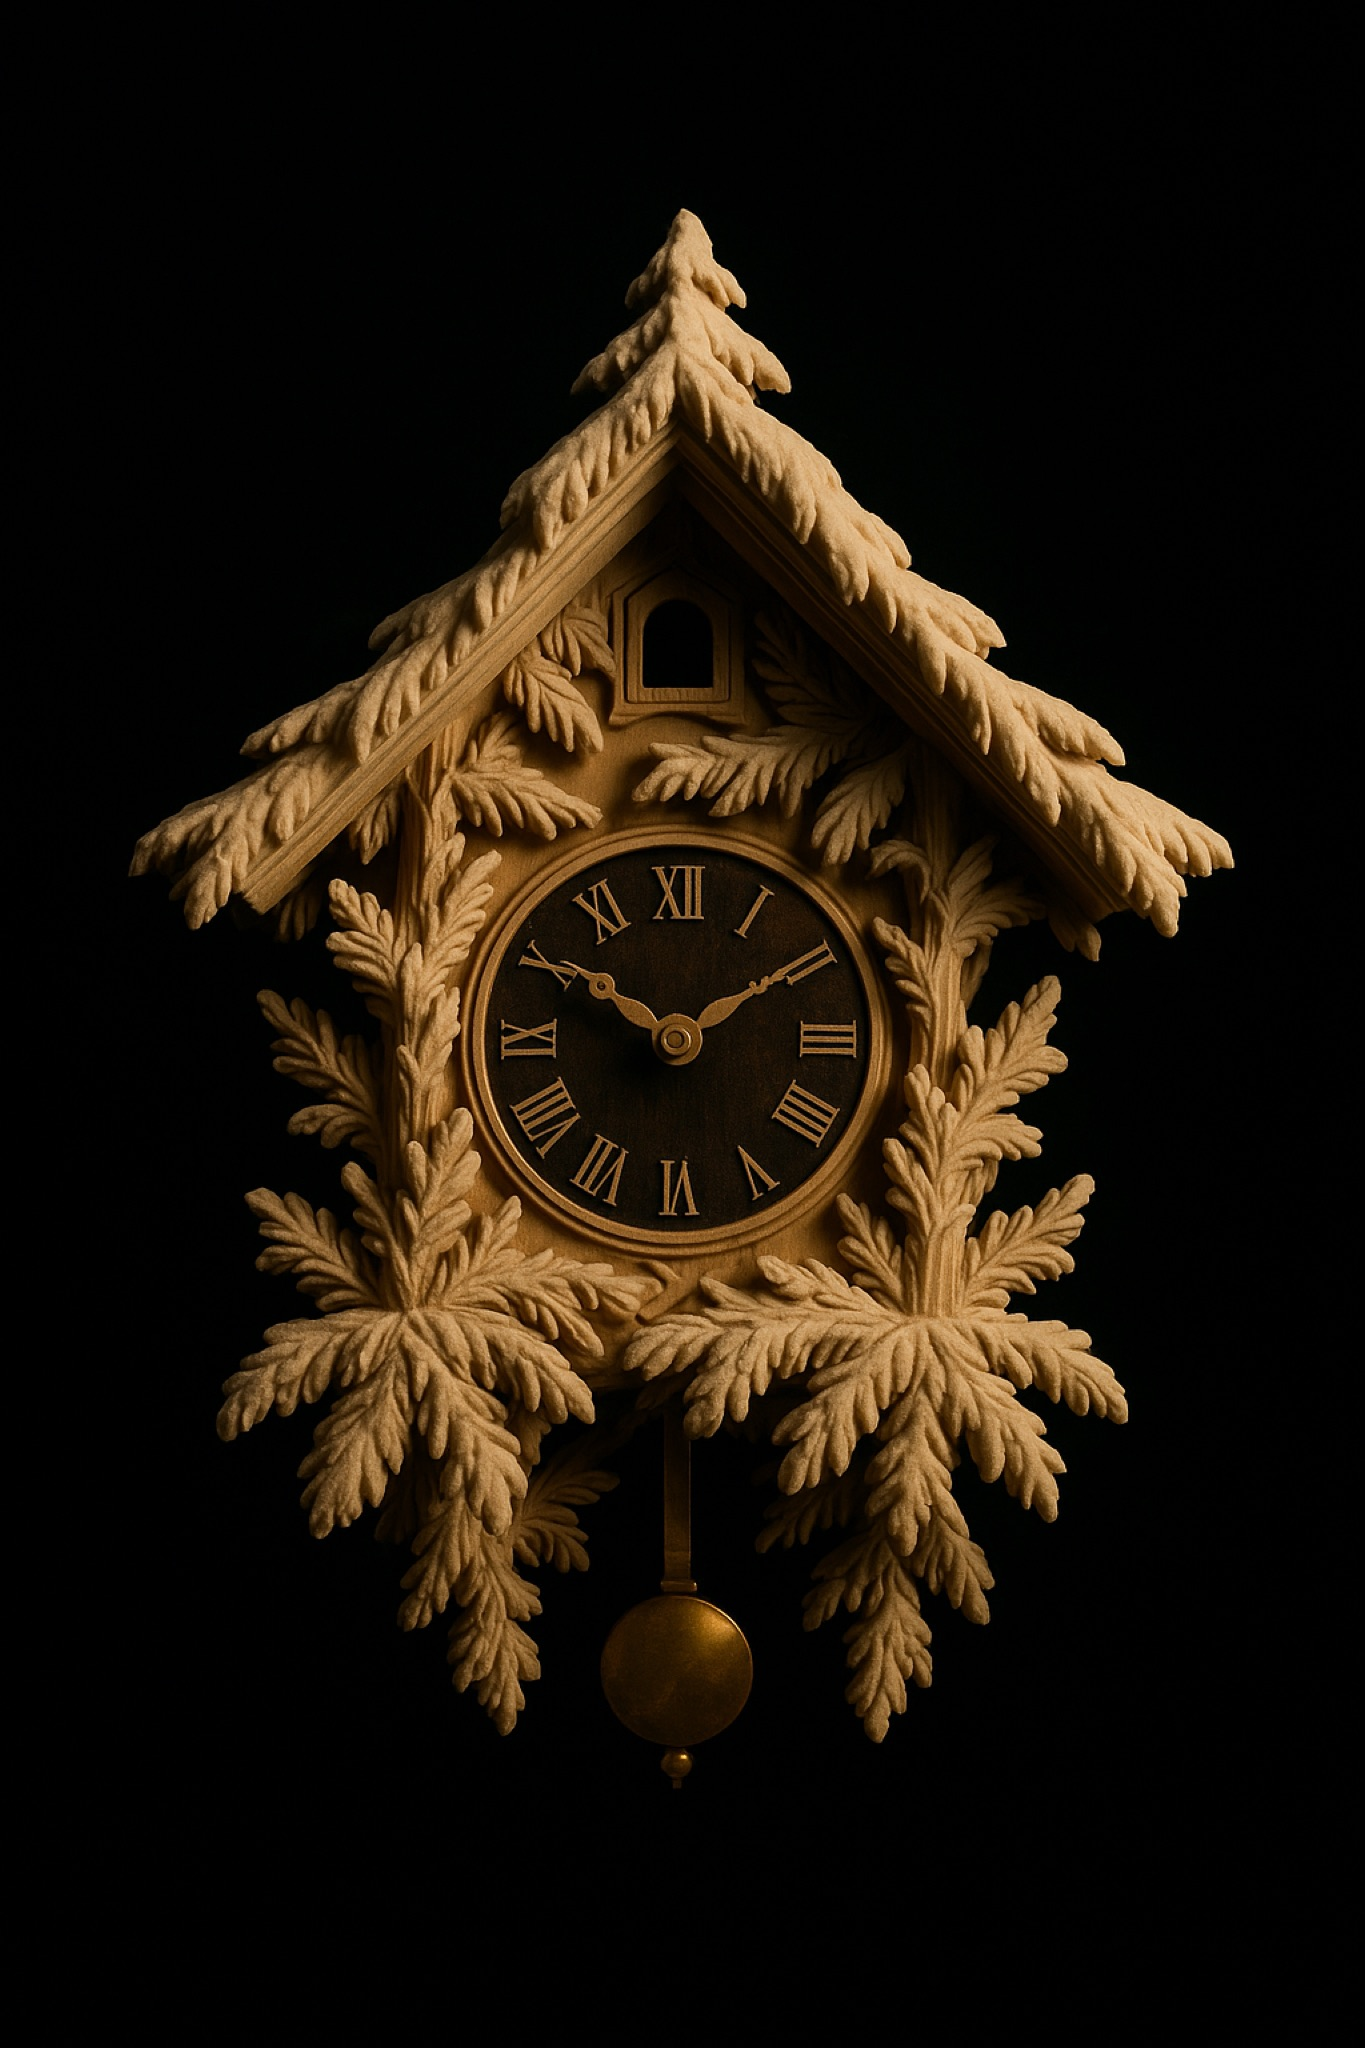
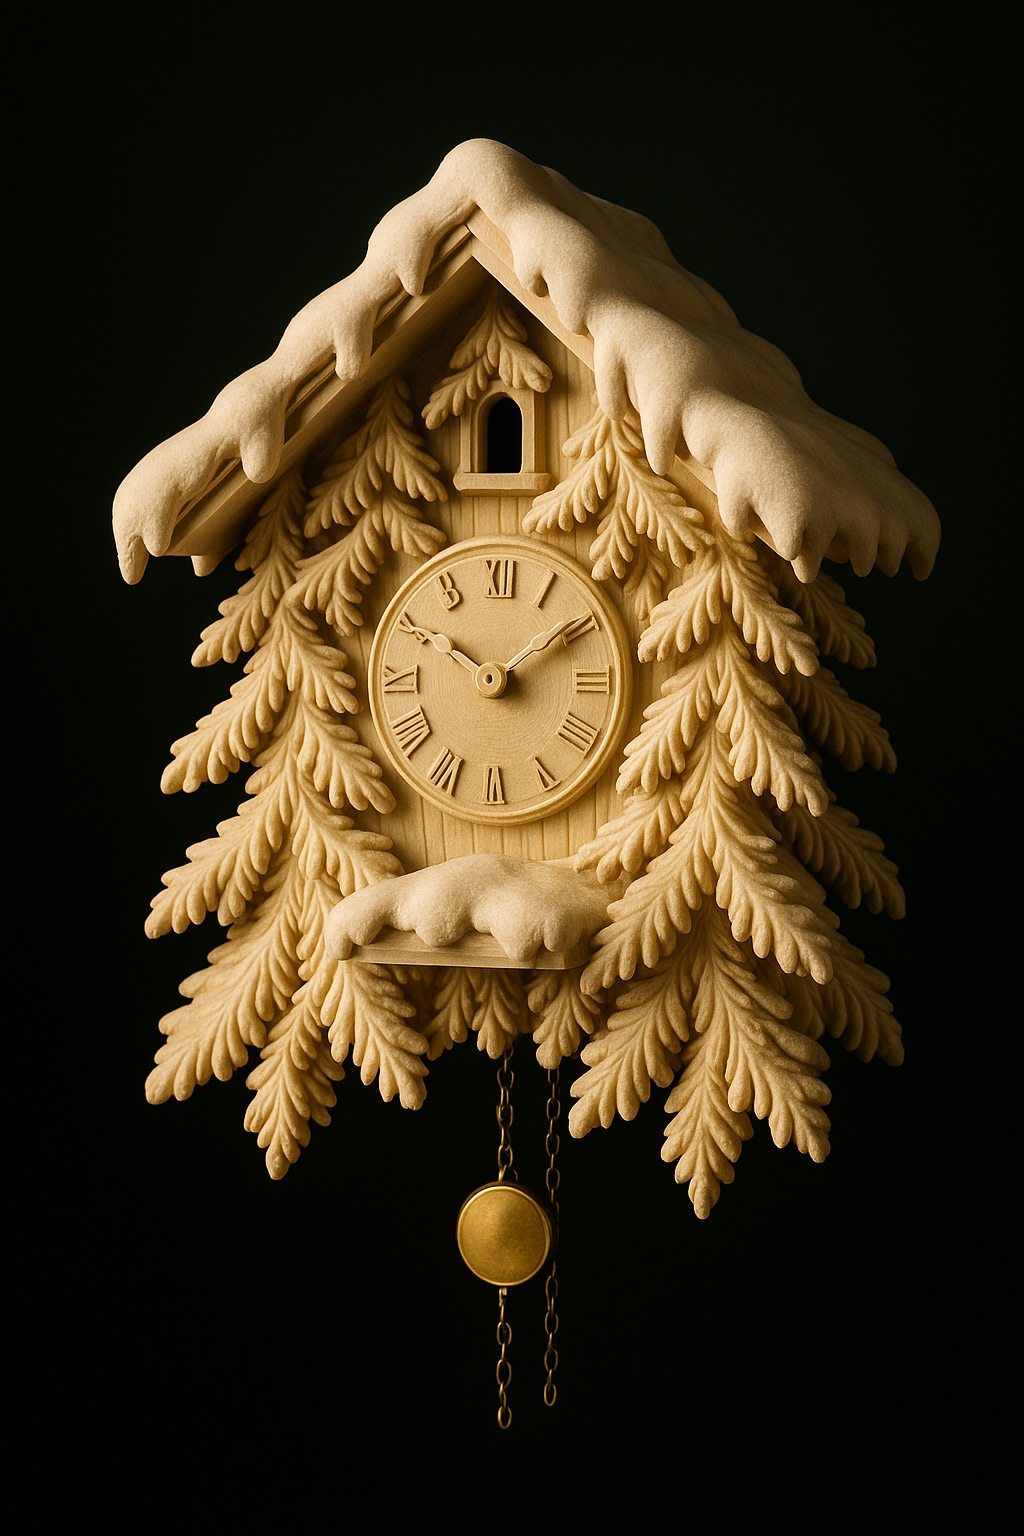
Schwarzwald: relight Tannenruh & Waldkauz; the card family turns to cherry
The remaining two Kabinett plates regenerated under the raised-lantern
recipe. Waldkauz is now copy-faithful — the tawny owl carved in pale
linden against the dark walnut case, a contrast the first plate missed.
Tannenruh's bare linden carries its own light (mean luma 48); neither
plate needed the gamma lift.

kirsche (#1d1009, cherry wood — the clock-cabinet timber) joins the
palette as the fill of the card family: the specs placards, the Urkunde
card, and the dossier papers card. Documented in DESIGN.md alongside a
clarification that kirsche does not soften the no-red rule: material,
never color.

diff --git a/sites/schwarzwald/src/styles/global.css b/sites/schwarzwald/src/styles/global.css
@@ -20,6 +20,9 @@
   /* lamplit timber — the house's own voice, one chapter per page */
   --stube:       #171309;
 
+  /* cherry wood — the placard panels only, never a chapter ground */
+  --kirsche:     #1d1009;
+
   /* aged brass */
   --messing:        #c68e4e;
   --messing-bright: #eec489;
@@ -305,10 +308,10 @@ a:hover .plate img, .plate:hover img { filter: brightness(1.06); }
 }
 
 /* ---------- spec sheet (museum placard) ----------
-   filled with stube — a small panel of lamplit timber against the fir
+   filled with kirsche — a small panel of cherry wood against the fir
    ground, like the wooden placard beside a museum piece */
 .specs {
-  background: var(--stube);
+  background: var(--kirsche);
   border: 1px solid var(--line-soft);
   padding: var(--s4);
   display: grid; gap: var(--s3);

diff --git a/sites/schwarzwald/DESIGN.md b/sites/schwarzwald/DESIGN.md
@@ -77,7 +77,8 @@ The world is the fir forest at night, seen from a lantern-lit workshop.
 | `--wald` | `#0e130e` | Default page ground (fir-black-green — *not* neutral black, *not* Shokunin's brown) |
 | `--wald-2/3` | `#151c14` / `#1d261b` | Raised timber surfaces, panels |
 | `--nacht` / `--nacht-2` | `#101720` / `#17212e` | Winter-night blue — one chapter per page, no more |
-| `--stube` | `#171309` | Lamplit-timber brown (the *Stube*, the farmhouse parlor) — the ground of the chapter where the house speaks in its own voice, and the fill of `.specs` placards |
+| `--stube` | `#171309` | Lamplit-timber brown (the *Stube*, the farmhouse parlor) — the ground of the chapters where the house speaks in its own voice, and the footer hearth |
+| `--kirsche` | `#1d1009` | Cherry wood (*Kirschbaum*, the clock-cabinet timber) — the fill of the card family only: `.specs` placards, the Urkunde card, the papers card. Never a chapter ground, never larger than a card |
 | `--messing` | `#c68e4e` | Aged brass: labels, hairlines, marks, one primary button |
 | `--messing-bright` | `#eec489` | Brass at full lantern light: hovers, active, glints |
 | `--messing-deep` | `#8f6335` | Brass in shadow; selection background |
@@ -108,15 +109,20 @@ The world is the fir forest at night, seen from a lantern-lit workshop.
    temperatures*: fir-green (the forest, the default), stube (inside the
    house), nacht (the winter night outside the window) — warm and cold
    alternating around the green. Every chapter ground must be one of these
-   or void; never invent a fourth. Two sanctioned uses outside chapters:
-   the `.specs` placard — a panel of lamplit timber beside each clock —
-   and the site footer, which settles from void into stube on every page:
-   the guest leaves past the hearth.
+   or void; never invent a fourth. One sanctioned use outside chapters:
+   the site footer, which settles from void into stube on every page —
+   the guest leaves past the hearth. (The card family — `.specs`, the
+   Urkunde card, the papers card — is filled with kirsche, cherry wood;
+   see the token table.)
 3. **Text sits on darkness, never on brass** except inside the primary
    button (`#120e08` on `--messing`).
 4. **Forbidden:** red in any form, vermilion (Kaji's), Shokunin's brown
    lacquer range, pure `#000`/`#fff`, saturated accents, decorative
    gradients (gradients exist only as photographic shade/vignette).
+   Kirsche (`#1d1009`) is not an exception to the red rule: it is a wood
+   brown whose warmth leans red, sanctioned only as the card family's
+   timber. If a tone reads as *color* rather than *material*, it is red,
+   and it is out.
 
 ---
 
